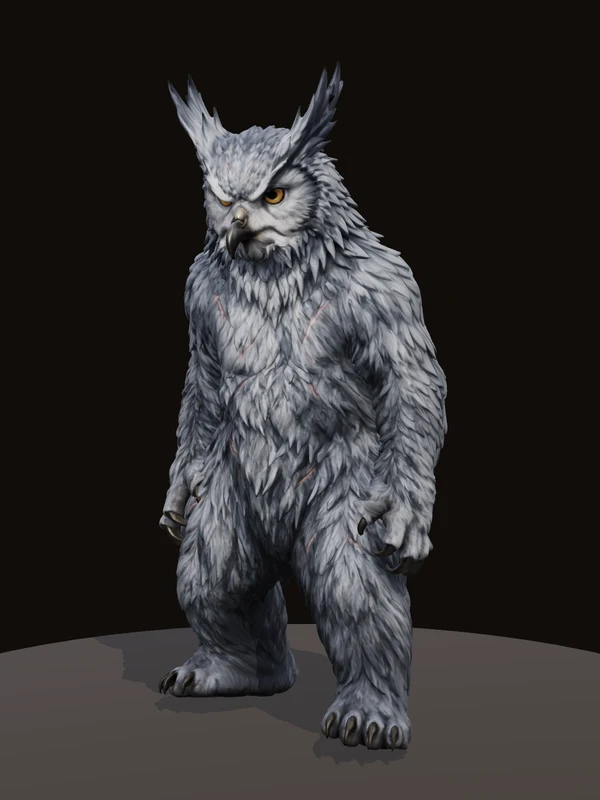
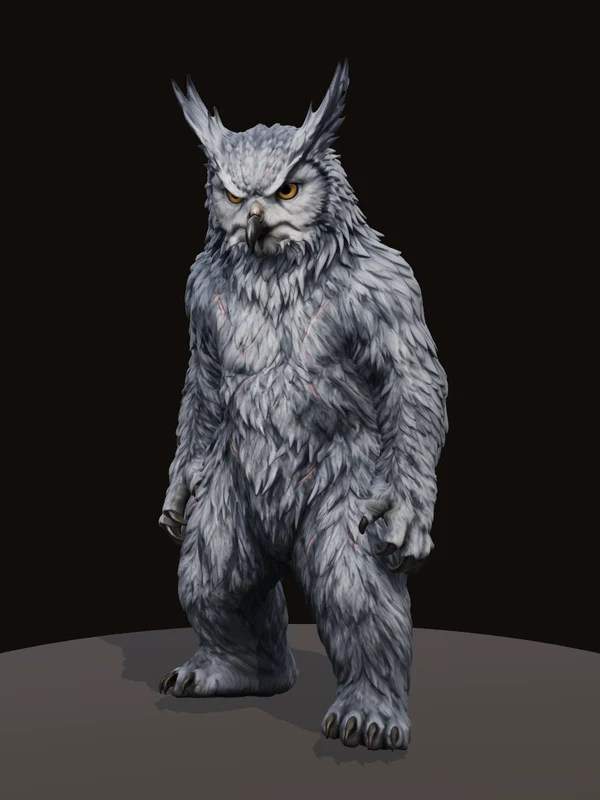
Thalbern's cut ends where it lands, and the owlbear's head is its own, held up, with lit eyes
Swing is cut at 0.44 s and eased back to guard over eight frames (a part's ~N): no crouch held and no
blade in the floor.

Hi3D's owlbear showed no face in the game. Its head's skin was shared with the chest and collarbones:
crown gives a beast's head to the head bone. chin holds the head higher in a clip, lit lights texels
of a hue from within, and a hit's flash is added to a figure's own glow.

diff --git a/asset-library/pipeline/pilot.ts b/asset-library/pipeline/pilot.ts
@@ -25,8 +25,8 @@
 // A brief with "borrowed" has clips from another skeleton's library copied onto the figure's own (retarget.ts), free:
 // { "Q Swing": "ual1:Sword_Attack" } is the clip Sword_Attack of asset-library/moves/ual1.glb, played as Q Swing,
 // and { "Q Dodge": "m2m/dodge-left" } the one clip of asset-library/moves/m2m/dodge-left.glb. Parts of clips can be
-// played one after another, each cut by seconds: "m2m/bow-pull@0-1.5 > m2m/bow-release@0-0.6". The libraries are not
-// kept in git:
+// played one after another, each cut by seconds: "m2m/bow-pull@0-1.5 > m2m/bow-release@0-0.6". A part is eased into
+// over three frames, or over as many as "~8" after it says. The libraries are not kept in git:
 //   ual1.glb, ual2.glb   Quaternius's Universal Animation Library 1 and 2, CC0: each pack's Unreal-Godot file
 //                        without root motion (UAL1_Standard.glb, UAL2_Standard.glb)
 //   m2m/                 Mesh2Motion's clips, CC0: static/assets/human/animations of its repository
@@ -45,7 +45,7 @@ import { execFileSync } from "node:child_process"
 import { existsSync } from "node:fs"
 import { mkdir, readFile, stat, writeFile } from "node:fs/promises"
 import { type Accessor, type Document, type Node, NodeIO } from "@gltf-transform/core"
-import { ALL_EXTENSIONS, EXTTextureWebP } from "@gltf-transform/extensions"
+import { ALL_EXTENSIONS, EXTTextureWebP, KHRMaterialsEmissiveStrength } from "@gltf-transform/extensions"
 import { simplify, textureCompress, weld } from "@gltf-transform/functions"
 import { MeshoptSimplifier } from "meshoptimizer"
 import sharp from "sharp"
@@ -542,6 +542,62 @@ function ease(doc: Document, name: string, limit: number) {
   return most
 }
 
+// A head held higher in a clip, by so many degrees and never past level. The hunched stand and walk a beast borrows
+// hang the head with the back, and a head as large as an owlbear's then shows its crown and no face (the owner's
+// owlbear from Hi3D, 2026-11-20: in the game its eyes did not show). The line the face looks along is turned up
+// about the level line square to it, half at the neck and half at the head, frame by frame, so the head still sways.
+// Returns how far under level the face looked at its worst, and the most it was lifted.
+function chin(doc: Document, name: string, degrees: number) {
+  const clip = doc
+    .getRoot()
+    .listAnimations()
+    .find((a) => a.getName() === name)
+  const joints = doc.getRoot().listSkins()[0]?.listJoints() ?? []
+  const find = (bone: string) => joints.find((j) => new RegExp(`(^|:)${bone}$`).test(j.getName()))
+  const [neck, head] = [find("Neck"), find("Head")]
+  if (!clip || !neck || !head) return null
+  const read = reader(clip)
+  const turned = (node: Node | null, time: number): Quat => {
+    if (!node) return [0, 0, 0, 1]
+    const up = node.getParentNode()
+    const own = read(node, "rotation", time) as Quat
+    return up ? qmul(turned(up, time), own) : own
+  }
+  const keys = (node: Node) => {
+    const sampler = clip
+      .listChannels()
+      .find((c) => c.getTargetNode() === node && c.getTargetPath() === "rotation")
+      ?.getSampler()
+    return [sampler?.getInput(), sampler?.getOutput()] as const
+  }
+  const [times, necks] = keys(neck)
+  const [, heads] = keys(head)
+  if (!times || !necks || !heads || heads.getCount() !== necks.getCount() || head.getParentNode() !== neck) return null
+  // The way the face looks, as the head bone has it: forward of the figure as it was modelled.
+  const forward = qturn(qinv(head.getWorldRotation() as Quat), [0, 0, 1])
+  let [worst, most] = [0, 0]
+  for (let i = 0; i < necks.getCount(); i++) {
+    const time = times.getScalar(i)
+    const above = turned(neck.getParentNode(), time)
+    const [n, h] = [necks.getElement(i, [0, 0, 0, 1]) as Quat, heads.getElement(i, [0, 0, 0, 1]) as Quat]
+    const looks = qturn(qall(above, n, h), forward)
+    const under = (-Math.asin(Math.max(-1, Math.min(1, looks[1] / (Math.hypot(...looks) || 1)))) * 180) / Math.PI
+    worst = Math.max(worst, under)
+    const by = Math.max(0, Math.min(degrees, under))
+    if (!by) continue
+    most = Math.max(most, by)
+    // About the level line square to the way it looks, the turn that brings that way up.
+    const level = Math.hypot(looks[0], looks[2]) || 1
+    const half = (by * Math.PI) / 180 / 4
+    const up: Quat = [(-looks[2] / level) * Math.sin(half), 0, (looks[0] / level) * Math.sin(half), Math.cos(half)]
+    necks.setElement(i, qall(qinv(above), up, above, n))
+    // The head's parent has turned by then: the same turn again, as the neck now has it.
+    const neckNow = qall(up, above, n)
+    heads.setElement(i, qall(qinv(neckNow), up, neckNow, h))
+  }
+  return [worst, most] as const
+}
+
 // Each shoulder joint moved up by so many centimetres of the figure's height, down if less than none, with the skin
 // bound as it was and the elbow left where it is: to measure whether a rigger set the joint too high or too low
 // (`--shoulder=-3`).
@@ -881,6 +937,59 @@ function fingersOnly(doc: Document, fist?: "L" | "R", big = 1) {
           if (palm && toFore > 0) give(palm.fore, w[k] * toFore)
         }
         if (!changed) continue
+        const top = [...shares].sort((x, y) => y[1] - x[1]).slice(0, 4)
+        const [whole, kept] = [[...shares.values()].reduce((sum, v) => sum + v, 0), top.reduce((sum, [, v]) => sum + v, 0) || 1]
+        J.setElement(
+          i,
+          [0, 1, 2, 3].map((k) => top[k]?.[0] ?? 0)
+        )
+        W.setElement(
+          i,
+          [0, 1, 2, 3].map((k) => ((top[k]?.[1] ?? 0) / kept) * whole)
+        )
+        moved++
+      }
+    }
+  return moved
+}
+
+// A beast's head given to its head bone. A rigger looks for a person: on an owlbear, whose head sits in its
+// shoulders with no neck, it shared the head's skin between the chest (38%), the two collarbones (27%) and the head
+// (34%), where a person's head is the head bone's by four fifths. The head then hung with the chest and no turn of
+// the neck moved the face (the owner's owlbear from Hi3D, 2026-11-20). From the neck joint's height the skin is given
+// to the head more and more, all of it at the head joint's, and only between the shoulders: above the head joint by
+// the neck's length again it is the head's however wide, for ears and tufts.
+function crown(doc: Document) {
+  const skin = doc.getRoot().listSkins()[0]
+  const joints = skin?.listJoints() ?? []
+  const place = (name: string) => joints.findIndex((j) => new RegExp(`(^|:)${name}$`).test(j.getName()))
+  const [head, neck, armL, armR] = [place("Head"), place("Neck"), place("LeftArm"), place("RightArm")]
+  if (head < 0 || neck < 0 || armL < 0 || armR < 0) return 0
+  const at = (i: number) => joints[i].getWorldMatrix().slice(12, 15)
+  const [h, n] = [at(head), at(neck)]
+  const wide = Math.max(Math.abs(at(armL)[0] - h[0]), Math.abs(at(armR)[0] - h[0]))
+  const long = Math.max(1e-6, h[1] - n[1])
+  let moved = 0
+  for (const mesh of doc.getRoot().listMeshes())
+    for (const prim of mesh.listPrimitives()) {
+      const [pos, J, W] = [prim.getAttribute("POSITION"), prim.getAttribute("JOINTS_0"), prim.getAttribute("WEIGHTS_0")]
+      if (!pos || !J || !W) continue
+      for (let i = 0; i < J.getCount(); i++) {
+        const p = pos.getElement(i, [0, 0, 0])
+        const between = Math.max(1 - eased(Math.abs(p[0] - h[0]), wide * 0.7, wide * 1.1), eased(p[1], h[1], h[1] + long))
+        const share = eased(p[1], n[1], h[1]) * between
+        if (share < 0.004) continue
+        const [j, w] = [J.getElement(i, [0, 0, 0, 0]), W.getElement(i, [0, 0, 0, 0])]
+        const shares = new Map<number, number>()
+        let given = 0
+        for (const [k, bone] of j.entries()) {
+          if (w[k] <= 0) continue
+          const gives = bone === head ? 0 : w[k] * share
+          given += gives
+          shares.set(bone, (shares.get(bone) ?? 0) + w[k] - gives)
+        }
+        if (given < 0.004) continue
+        shares.set(head, (shares.get(head) ?? 0) + given)
         const top = [...shares].sort((x, y) => y[1] - x[1]).slice(0, 4)
         const [whole, kept] = [[...shares.values()].reduce((sum, v) => sum + v, 0), top.reduce((sum, [, v]) => sum + v, 0) || 1]
         J.setElement(
@@ -1345,10 +1454,12 @@ async function borrow(base: Document, borrowed: Record<string, string> = {}) {
     // "ual1:Sword_Attack", "m2m/bow-pull", and parts of clips one after another: "m2m/bow-pull@0-1.5 > m2m/bow-release".
     const parts = await Promise.all(
       from.split(">").map(async (part) => {
-        const [spec, cut] = part.trim().split("@")
+        // "~8" after a part: eased into over eight frames from where the part before it stopped, not the usual three.
+        const [whole, ease] = part.trim().split("~")
+        const [spec, cut] = whole.split("@")
         const [file, clip] = spec.split(":")
         const [start, end] = (cut ?? "").split("-").map(Number)
-        return { library: await library(file), clip, from: cut ? start : undefined, to: cut ? end : undefined }
+        return { library: await library(file), clip, from: cut ? start : undefined, to: cut ? end : undefined, ease: ease ? Number(ease) : undefined }
       })
     )
     const long = parts.every((part) => part.library) ? retarget(base, parts as Part[], name) : null
@@ -1424,6 +1535,8 @@ interface Brief {
   height: number
   party?: boolean
   who: string
+  // A beast, not a person (build.ts asks for its sheet as an animal): its head's skin is given to the head bone.
+  creature?: boolean
   // Who makes it: Tripo then Meshy (the default), or Rodin or Hi3D then Hyper3D's rigging.
   maker?: "rodin" | "hi3d"
   // A figure whose model and sheet this one takes in place of its own. Meshy's rig and clips alone are paid for.
@@ -1438,6 +1551,11 @@ interface Brief {
   drawn?: Record<string, { until: number }>
   // The most an arm is raised in a clip, in degrees up from hanging: { "Swing": 85 }.
   eased?: Record<string, number>
+  // The head held higher in a clip, in degrees and never past level: { "Idle Heavy": 30 }.
+  chin?: Record<string, number>
+  // What is lit from within: texels of a hue between two, in degrees, giving off their colour so many times over.
+  // An owlbear's amber eyes are { "hue": [20, 55], "strength": 3 }.
+  lit?: { hue: [number, number]; strength: number }
   // False to leave out the bones between arm and trunk, for a figure kept to measure against.
   helpers?: boolean
   // The share of its gloss a figure keeps where it is not metal, of 1: 0.5 makes a roughness of 0.6 one of 0.8.
@@ -1523,6 +1641,49 @@ async function dull(keeps: number) {
     texture.setImage(await sharp(data, { raw: { width: info.width, height: info.height, channels: info.channels } }).webp({ quality: 92 }).toBuffer()).setMimeType("image/webp")
   }
   await io.write(`${dir}/lod0.glb`, doc)
+  return texels
+}
+
+// Eyes lit from within. A beast met in a dark wood is known by its eyes, and a model's colour has no light of its
+// own: Hi3D's owlbear has amber eyes that the night's light leaves as dull as its fur (the owner, 2026-11-20). Texels
+// of the brief's hue, strong in colour and not dark, give off their own colour that many times over: the game and
+// the page add it to whatever light falls on them. Returns how many texels are lit.
+async function lit(hue: [number, number], strength: number) {
+  const io = new NodeIO().registerExtensions(ALL_EXTENSIONS)
+  const doc = await io.read(`${dir}/lod0.glb`)
+  let texels = 0
+  for (const material of doc.getRoot().listMaterials()) {
+    const image = material.getBaseColorTexture()?.getImage()
+    if (!image) continue
+    const { data, info } = await sharp(image).removeAlpha().raw().toBuffer({ resolveWithObject: true })
+    const mask = Buffer.alloc(info.width * info.height)
+    for (let i = 0, p = 0; i < data.length; i += info.channels, p++) {
+      const [r, g, b] = [data[i] / 255, data[i + 1] / 255, data[i + 2] / 255]
+      const [most, least] = [Math.max(r, g, b), Math.min(r, g, b)]
+      if (most < 0.25 || (most - least) / most < 0.6) continue
+      const at = (60 * (most === r ? (g - b) / (most - least) : most === g ? 2 + (b - r) / (most - least) : 4 + (r - g) / (most - least)) + 360) % 360
+      if (at < hue[0] || at > hue[1]) continue
+      mask[p] = 255
+      texels++
+    }
+    if (!texels) continue
+    // The edge of what is lit is softened by a few texels, and the colour is the model's own.
+    const soft = await sharp(mask, { raw: { width: info.width, height: info.height, channels: 1 } }).blur(2).raw().toBuffer()
+    const glow = Buffer.alloc(info.width * info.height * 3)
+    for (let p = 0; p < soft.length; p++) for (let k = 0; k < 3; k++) glow[p * 3 + k] = Math.round((data[p * info.channels + k] * soft[p]) / 255)
+    doc.createExtension(EXTTextureWebP).setRequired(true)
+    const texture = doc
+      .createTexture("glow")
+      .setImage(await sharp(glow, { raw: { width: info.width, height: info.height, channels: 3 } }).webp({ quality: 92 }).toBuffer())
+      .setMimeType("image/webp")
+    // A strength over 1 is its own extension in glTF. The game's night is dim and its exposure low: an eye wants
+    // about three times its own colour to show there.
+    material
+      .setEmissiveTexture(texture)
+      .setEmissiveFactor([1, 1, 1])
+      .setExtension("KHR_materials_emissive_strength", doc.createExtension(KHRMaterialsEmissiveStrength).createEmissiveStrength().setEmissiveStrength(strength))
+  }
+  if (texels) await io.write(`${dir}/lod0.glb`, doc)
   return texels
 }
 
@@ -1797,6 +1958,10 @@ async function rodinHyper(brief: Brief) {
     const most = ease(doc, name, limit)
     say("ease", most === null ? `${name}: no such clip` : `${name}: an arm was raised ${most.toFixed(0)}°, and is kept under ${limit}°`)
   }
+  for (const [name, degrees] of Object.entries(brief.chin ?? {})) {
+    const lifted = chin(doc, name, degrees)
+    say("chin", lifted ? `${name}: the face looked ${lifted[0].toFixed(0)}° under level at its lowest, and is lifted by up to ${lifted[1].toFixed(0)}°` : `${name}: no such clip, or no neck and head keyed in it`)
+  }
   // `--elbows=off` leaves each elbow as its clip has it, and `--hang=off` each finger as it was modelled.
   const bent = args.includes("--elbows=off") ? null : elbows(doc)
   if (bent) say("elbows", `${bent.moved} keys moved: an elbow went ${bent.past.toFixed(0)}° past straight (the ${bent.where}), and no arm near straight is under ${FLOOR}° now`)
@@ -1807,6 +1972,9 @@ async function rodinHyper(brief: Brief) {
   const big = (brief.height ?? 1.8) / 1.8
   const cloth = fingersOnly(doc, brief.holds ? (brief.holds.hand ?? "R") : undefined, big)
   if (cloth) say("fingers", `${cloth} points that are no finger or no hand taken off those bones, and given to the hand or the forearm`)
+  // A beast's head is its head bone's: `--crown=off` leaves it shared as the rigger had it.
+  const crowned = brief.creature && !args.includes("--crown=off") ? crown(doc) : 0
+  if (crowned) say("crown", `${crowned} points of the head given to the head bone`)
   // `--helpers=off` leaves the skeleton as the rigger made it, to measure against.
   if (!args.includes("--helpers=off") && brief.helpers !== false) say("helpers", `${helpers(doc)} points hung on a bone between arm and trunk`)
   // `--rolls=off` leaves a forearm's roll at the elbow, to measure against.
@@ -1851,6 +2019,7 @@ async function main() {
   if (painted) say("face", `the sheet's, ${painted.fitted ? "fitted to the model's own" : "not fitted"}, ${painted.texels} texels`)
   if ("rod" in made && made.rod) say("rod", `${await unblue()} texels of blue beside it given the colour of the skin`)
   if (brief.gloss !== undefined && brief.gloss < 1) say("gloss", `${await dull(brief.gloss)} texels keep ${brief.gloss} of it where they are not metal`)
+  if (brief.lit) say("lit", `${await lit(brief.lit.hue, brief.lit.strength)} texels of that hue give off their colour ${brief.lit.strength} times over`)
 
   const lods = await thin()
   say("lods", lods.map((l) => `${l.file} ${l.triangles} triangles, ${l.megabytes} MB`).join(", "))

diff --git a/asset-library/pipeline/retarget.ts b/asset-library/pipeline/retarget.ts
@@ -100,7 +100,8 @@ export function reader(clip: Animation) {
 }
 
 // A clip of a library, its first when none is named, or the part of it between two times in seconds.
-export type Part = { library: Document; clip?: string; from?: number; to?: number }
+// `ease` is how many frames it is eased into from the part before it, when the brief says ("...@0.95-1.53~8").
+export type Part = { library: Document; clip?: string; from?: number; to?: number; ease?: number }
 type Take = { hips: Node; count: number; turns: Map<Node, Float32Array<ArrayBuffer>>; places: Float32Array<ArrayBuffer> }
 // How long one part is eased into from the one before it, in frames.
 const EASE = 3
@@ -220,7 +221,10 @@ export function retarget(figure: Document, parts: Part[], as: string): number | 
   for (const [n, part] of (takes as Take[]).entries()) {
     for (let i = 0; i < part.count; i++, at++) {
       // How much of this frame is the part's own, and how much where the last part stopped.
-      const own = n && i < EASE ? (i + 1) / (EASE + 1) : 1
+      // A long ease starts slowly and ends slowly: a sword stopped where its blow lands stays there a moment.
+      const ease = parts[n].ease ?? EASE
+      const share = (i + 1) / (ease + 1)
+      const own = n && i < ease ? (ease > EASE ? share * share * (3 - 2 * share) : share) : 1
       for (const [joint, all] of turns) {
         const turn = part.turns.get(joint)?.subarray(i * 4, i * 4 + 4)
         if (turn) all.set(own < 1 ? qmix(all.subarray((at - i - 1) * 4, (at - i) * 4), turn, own) : turn, at * 4)

diff --git a/packages/stage/src/figures/models.ts b/packages/stage/src/figures/models.ts
@@ -87,6 +87,8 @@ interface Model {
   meshes: THREE.Mesh[]
   materials: Mat[]
   base: THREE.Color[]
+  // What each material gives off of its own, as modelled: an owlbear's lit eyes. A hit's flash is added to it.
+  glow: THREE.Color[]
   triangles: number
 }
 
@@ -321,6 +323,7 @@ export class Models {
       meshes,
       materials: mats,
       base: mats.map((m) => m.color.clone()),
+      glow: mats.map((m) => m.emissive.clone()),
       triangles,
     })
   }
@@ -480,7 +483,7 @@ export class Models {
         const k = Math.max(0, 1 - flash.t / 0.45) * flash.strength
         m.materials.forEach((mat, i) => {
           mat.color.copy(m.base[i]).lerp(flash.color, Math.min(0.7, 0.6 * k))
-          mat.emissive.copy(flash.color).multiplyScalar(0.035 * k)
+          mat.emissive.copy(flash.color).multiplyScalar(0.035 * k).add(m.glow[i])
         })
         if (k <= 0) this.hits.delete(c.id)
       }

diff --git a/asset-library/README.md b/asset-library/README.md
@@ -96,6 +96,11 @@ What goes wrong, and what to do:
 - Cloth that hangs far from the arm is the model's weakest part. One skin has no cloth in it: a bell sleeve is carried by the forearm like a board. A long coat or a cloak that hangs straight is fine. If the card has hanging sleeves, say in `stow` that they are close to the arm, or keep the figure it would replace.
 - Two characters may name one cast id (`lyra` and `lyra-hi3d`). The page then opens the newer for that cast id: open each by its own id, `/dev/assets?id=lyra-hi3d`.
 - A beast is made the same way with `"creature": true`. Its sheet is asked for as an animal, the rig is still a person's, and it plays the hunched clips (`owlbear-hi3d`).
+  - The rigger shares a beast's head between the chest, the collarbones and the head bone, so the head hangs with the back and no turn of the neck moves the face. `crown` in `pilot.ts` gives the head to the head bone, for every `creature`.
+  - `"chin": { "Idle Heavy": 25 }` holds the head that many degrees higher in a clip, never past level.
+  - `"lit": { "hue": [20, 55], "strength": 3 }` lights texels of that hue from within: its eyes, in the dark. The game's night wants about 3. At 0.4 nothing showed.
+- Look at a shipped figure in the game's own stage before swapping it in: `/dev/stage?staging=<key>&look=play&tier=high&motion=0`. The review room is lit from the front and level with the face. The game looks down on a hunched beast in the dark, and the owlbear that looked sharper in the room showed no face there. `/dev/stage-lab` stands painted cards and no figure.
+- A clip's ending can be cut and the rest eased into: `"Swing": "ual1:Sword_Attack@0-0.44 > ual1:Sword_Attack@1.0-1.53~8"` stops the cut where the blow lands and takes eight frames to come back to guard. Cut at the frame the blade is where it should stop, and look at a strip of frames: cut 0.04 s sooner and the blade never came down.
 - A second model of a character is a second $2.10. Everything after the model is free to do again, so mend there first: gloss, the face, the clips, the hands.
 
 ## What you need
@@ -591,6 +596,10 @@ The owner, 2026-11-16, of the rod-hand Thalbern drawing a bow: "now his hand loo
 - Wollandora, the owlbear and Covert Cargo's cast, 2026-11-19 and 20 (the owner: "do the same thing for wollandora and the owlbear, then document the process and do all the characters for covert cargo"). Nine models, $2.30 each. The way is written up under The way a shipped figure is made now. Pictures of each beside its card and its sheet: `~/Desktop/d20-hi3d-figures/<id>-sheet.jpg`.
   - `wollandora-hi3d`: not shipped. Her face and hair are sharper than Rodin's. Her sheet is of the front alone, so the back is Hi3D's own, a plain dark cloak. And her bell sleeve is carried by the forearm: with the arm bent to her staff it stands out across her chest as dark sheets. Three things were found in it and mended for every figure (`pilot.ts`): cloth hung on finger and hand bones (`fingersOnly`), a fist closed further by `hang`, and the forearm's roll swinging what hangs under it. The sleeve itself is not mended. `SHIPPED` keeps `wollandora-rodin`.
   - `owlbear-hi3d`: shipped 2026-11-20, the owner's say. The head is sharper, eye and beak and feathers. The body is slighter and paler than Rodin's and has lost its scars. `SHIPPED` names it, and `owlbear-rodin` is kept beside it. Seen in the game's own stage beside Rodin's, at the fight (`/dev/stage?staging=the-midnight-summons/owlbear-confrontation&look=play`): it stands broader, and in the hunched stand its face points at the ground and its eyes do not show, where Rodin's amber eyes do. Rodin's has light painted into its colour and the eyes glow by it. A lit eye or a head held higher in Idle Heavy would mend it, neither tried.
+    - Mended the same day, the owner's say ("keep the new one and fix it"). Its head's skin was the head bone's by a third (Rodin's by four fifths): `crown` gives it the head, 25,045 points. `chin` lifts the face 25° in Idle Heavy, Walk Heavy and Claw, from 47°, 59° and 77° under level. `lit` lights its amber eyes, 9,262 texels at 3 times their colour. A hit's flash is now added to what a figure gives off of its own (`models.ts`, `glow`). Seen at the fight beside Rodin's and beside itself as it came: the face and both eyes show, the tufts stand up. `~/Desktop/d20-hi3d-figures/owlbear-in-game/before-after-beast.jpg`.
+    - The lift alone, tried first at 35° and at level, moved the face by almost nothing: that is what showed the skin was not the head's.
+  - Thalbern's cut, the owner's say 2026-11-20: "keep the current cut, but end it before the crouch and floor scrape". Swing is `ual1:Sword_Attack@0-0.44 > ual1:Sword_Attack@1.0-1.53~8`, 1.03 s for 1.53. The blade is level at the waist at 0.43 s and in the floor at 0.46. It stops at the waist, stays a moment and comes back to guard: `~N` after a part eases into it over N frames, slow at both ends. The blow still lands at 0.38 s. Cut at 0.40 and 0.43 with the usual three frames, the blade went up and came back without a stroke. `~/Desktop/thalbern-before-after/after-6/cut-before-after.jpg`, and `Cut trimmed` on `thalbern-hi3d-cuts`. The six other sword figures still play the whole clip.
+  - Not published yet: `thalbern-hi3d` and `owlbear-hi3d` as rebuilt. The site's game plays the bucket's copies until `pnpm assets:sync thalbern-hi3d owlbear-hi3d`.
   - Covert Cargo: `lyra-hi3d` and `poppen-hi3d` from the sheets their older figures were made from, and `reinhard`, `silas`, `elf-fighter`, `elf-archer` and `aelar` from new sheets. `PLAYS` names what each plays. None is in `SHIPPED`: no look of that adventure is marked `play`, so the game has nowhere to stand them yet.
   - Made and looked over: Lyra, Poppen, Reinhard and Silas. All four are the card's person, with the face, the coat or the cloak and the gear, and each holds the sword in a closed hand. Poppen's sword is a grown man's, long for a halfling 1.06 m tall. Silas's cloak has a hole the size of a hand in its back, in the model as it came: 196,940 triangles of the 200,000 asked for.
   - `elf-fighter`, `elf-archer` and `aelar` waited a night: the fal account ran out as the first of them was asked for (`HTTP 403 ... Exhausted balance`), with $13.80 of this batch's $20.70 spent and nothing charged for the three. Made 2026-11-20 with balance on the account, $6.90, each in about eleven minutes. All three are the card's person. The fighter's back has two shields, a small one over the large: the back sheet's. A lock of the archer's hair lies across her right eye in a close-up, modelled so. She and Aelar cut with a sword neither carries: the archer has a bow and Aelar a dagger at the belt.

diff --git a/asset-library/scorecards/thalbern.md b/asset-library/scorecards/thalbern.md
@@ -60,6 +60,8 @@ Judges differ by a point (`gates-look.md`). Read every number as give or take on
 
 | 5 | The hands and the elbow (README, the pilot): fingers laid round the grip, the other hand hung at ease, no arm near straight under 12° of bend. Judged on the moves alone, each of 2: the cut as a move 1, its joints 1, the sword hand 1, the bow shot 1, standing and walking 1. The cut "still reads wrong", by the move itself. The eight cuts ranked blind: Cut A 5.0 of 6, the cut now 4.5, within a judge's noise. | `after-5/`, `audition/` |
 
+| 6 | Not judged. The cut ends where its blow lands (README, the pilot): no crouch held and no blade in the floor, 1.03 s for 1.53. | `after-6/cut-before-after.jpg` |
+
 ## What Hi3D's model is, beside Rodin's
 
 - Better: the eyes are open and have lids, the hair has a shape, studs, buckles, hilts and straps are each a thing, the colour has no light painted into it (the sheet's and the model's skin are the same tone within a twelfth), and metal is marked only where there is metal.
